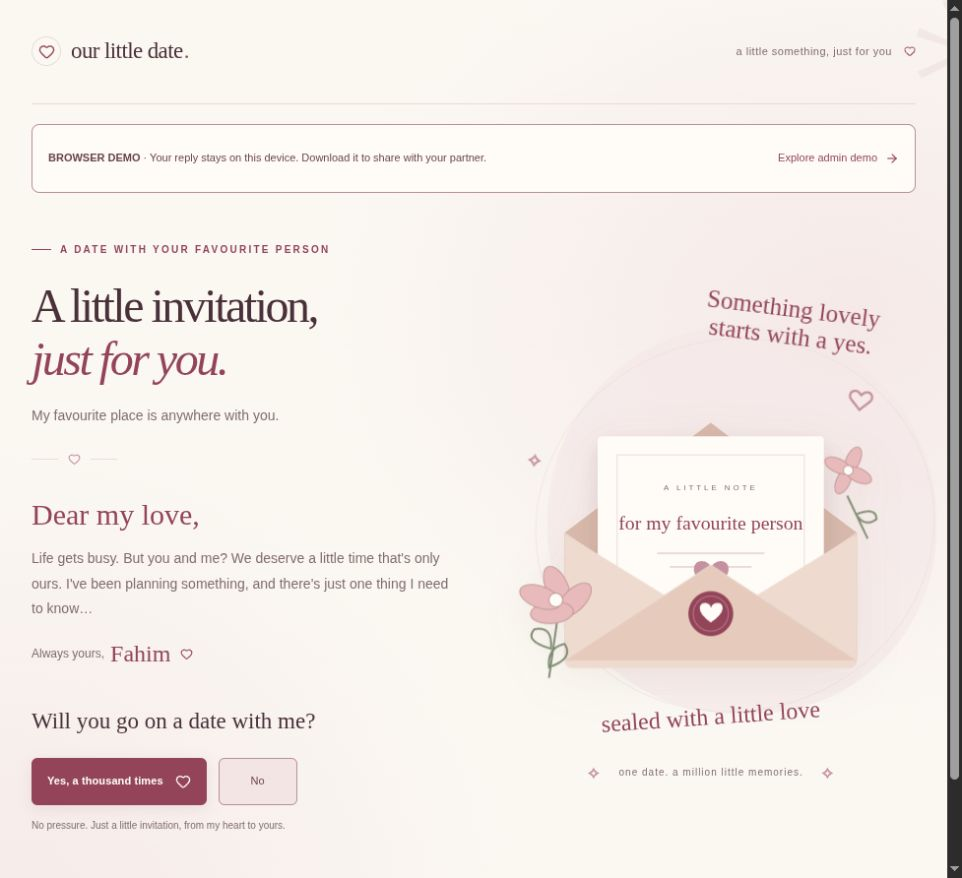
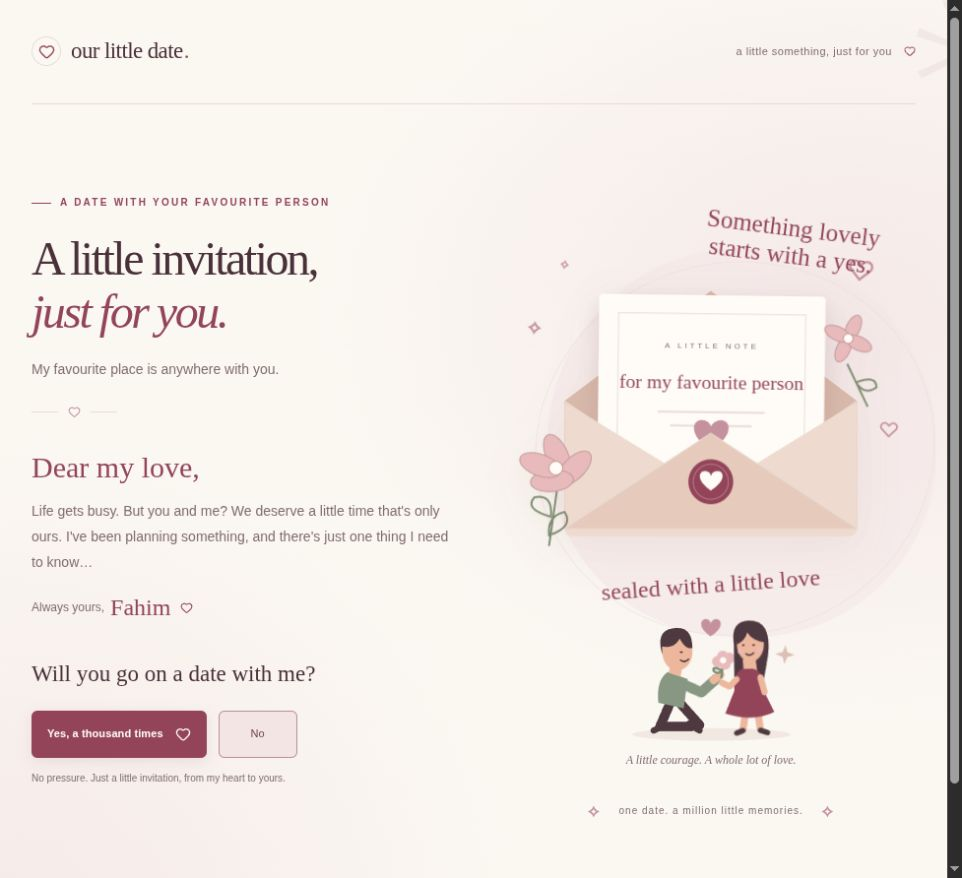
feat: animate love letter and add flower-offering couple

diff --git a/components/invitation/InvitationExperience.tsx b/components/invitation/InvitationExperience.tsx
@@ -7,6 +7,7 @@ import { DEFAULT_CONFIG } from "@/lib/defaults";
 import type { Answer, InvitationConfig, InvitationPayload, SavedResponse, SubmissionInput } from "@/lib/contracts";
 import "./invitation.css";
 import { RunawayNoButton } from "./RunawayNoButton";
+import { CoupleIllustration } from "./CoupleIllustration";
 import { DEMO_RECEIPT_KEY, demoReplyText, readDemoReceipt, saveDemoReceipt } from "@/lib/browser-demo";
 
 type Step = "welcome" | "date" | "preferences" | "note" | "review" | "saved";
@@ -31,7 +32,7 @@ function LetterIllustration() {
     <svg viewBox="0 0 420 340" className="invite-envelope-svg">
       <defs><filter id="letter-shadow" x="-50%" y="-50%" width="200%" height="200%"><feDropShadow dx="0" dy="9" stdDeviation="10" floodColor="currentColor" floodOpacity=".1" /></filter></defs>
       <g className="invite-envelope-back"><path d="M60 166 210 53l150 113v131H60Z" fill="var(--invite-envelope-deep)"/><path d="m60 166 150 104 150-104" fill="none" stroke="var(--invite-line)"/></g>
-      <g className="invite-letter" filter="url(#letter-shadow)"><rect x="94" y="67" width="232" height="206" rx="4" fill="var(--invite-paper)"/><path d="M114 86h192v166H114Z" fill="none" stroke="var(--invite-line)"/><text x="210" y="122" textAnchor="middle" className="invite-svg-small">A LITTLE NOTE</text><text x="210" y="163" textAnchor="middle" className="invite-svg-script">for my favourite person</text><path d="M155 187h110m-97 14h84" stroke="var(--invite-line)" strokeWidth="2"/><path d="M210 226c-23-15-20-31-9-31 5 0 9 4 9 7 1-3 5-7 10-7 11 0 14 16-10 31Z" fill="var(--invite-rose-soft)"/></g>
+      <g className="invite-letter" filter="url(#letter-shadow)"><g className="invite-letter-float"><rect x="94" y="67" width="232" height="206" rx="4" fill="var(--invite-paper)"/><path d="M114 86h192v166H114Z" fill="none" stroke="var(--invite-line)"/><text x="210" y="122" textAnchor="middle" className="invite-svg-small">A LITTLE NOTE</text><text x="210" y="163" textAnchor="middle" className="invite-svg-script">for my favourite person</text><path d="M155 187h110m-97 14h84" stroke="var(--invite-line)" strokeWidth="2"/><path d="M210 226c-23-15-20-31-9-31 5 0 9 4 9 7 1-3 5-7 10-7 11 0 14 16-10 31Z" fill="var(--invite-rose-soft)"/></g></g>
       <path d="M60 167 210 259 360 167v130a8 8 0 0 1-8 8H68a8 8 0 0 1-8-8Z" fill="var(--invite-envelope-light)"/>
       <path d="m60 297 150-98 150 98" fill="var(--invite-envelope-front)" stroke="var(--invite-line)" strokeWidth=".8"/>
       <circle cx="210" cy="249" r="23" fill="var(--invite-accent)"/><circle cx="210" cy="249" r="18" fill="none" stroke="var(--invite-seal-line)"/><path d="M210 258c-15-10-13-20-6-20 3 0 6 2 6 5 1-3 3-5 7-5 7 0 9 10-7 20Z" fill="var(--invite-paper)"/>
@@ -40,7 +41,7 @@ function LetterIllustration() {
       <g transform="translate(351 102) rotate(25)" fill="var(--invite-flower-petal)" stroke="var(--invite-rose-muted)"><ellipse cy="-12" rx="7" ry="14"/><ellipse cy="12" rx="7" ry="14"/><ellipse cx="12" rx="14" ry="7"/><ellipse cx="-12" rx="14" ry="7"/><circle r="5" fill="var(--invite-paper)"/></g>
       <path d="m350 128 21 44m-12-25q21-8 21 5-12 9-21-5Z" stroke="var(--invite-leaf)" fill="none" strokeWidth="2"/>
     </svg>
-    <span className="invite-floating-heart invite-heart-one">♡</span><span className="invite-floating-heart invite-heart-two">✧</span><span className="invite-envelope-caption">sealed with a little love</span>
+    <span className="invite-floating-heart invite-heart-one">♡</span><span className="invite-floating-heart invite-heart-three">♡</span><span className="invite-floating-heart invite-heart-four">✧</span><span className="invite-floating-heart invite-heart-two">✧</span><span className="invite-envelope-caption">sealed with a little love</span>
   </div>;
 }
 
@@ -211,7 +212,7 @@ export function InvitationExperience({ initialPayload, token, demo = false }: { 
       {openingFailed && <section className="invite-confirmation invite-opening-failure"><span className="invite-section-icon"><Mail size={22}/></span><span className="invite-eyebrow">YOUR PERSONAL INVITATION</span><h1>We couldn’t open this invitation.</h1><p className="invite-confirmation-copy" role="alert">{error}</p><p className="invite-no-pressure">Please try again, or ask Fahim for a fresh personal invitation link.</p></section>}
       {!openingFailed && step === "welcome" && <section className="invite-welcome invite-animate-in">
         <div className="invite-hero-copy"><span className="invite-eyebrow"><span/> A DATE WITH YOUR FAVOURITE PERSON</span><h1 ref={headingRef} tabIndex={-1}>{config.title.split("\n").map((line, index) => <span key={index}>{line}</span>)}</h1><p className="invite-subtitle">{config.subtitle}</p><div className="invite-tiny-rule"><span/><Heart size={13}/><span/></div><div className="invite-personal-note"><span className="invite-handwriting">Dear {config.recipientName},</span><p>{config.openingNote}</p><span className="invite-signature">Always yours, <span>{config.senderName}</span><Heart size={13}/></span></div><h2 className="invite-question">Will you go on a date with me?</h2><div className="invite-answer-buttons"><button className="invite-button invite-primary" onClick={() => chooseAnswer("yes")}>Yes, a thousand times <Heart size={16}/></button><RunawayNoButton onChoose={() => chooseAnswer("no")} /></div><p className="invite-no-pressure">No pressure. Just a little invitation, from my heart to yours.</p></div>
-        <div className="invite-hero-art"><span className="invite-art-note">Something lovely<br/>starts with a yes.</span><LetterIllustration/><div className="invite-art-footer"><span className="invite-art-sparkle">✧</span><span>one date. a million little memories.</span><span className="invite-art-sparkle">✧</span></div></div>
+        <div className="invite-hero-art"><span className="invite-art-note">Something lovely<br/>starts with a yes.</span><LetterIllustration/><CoupleIllustration/><div className="invite-art-footer"><span className="invite-art-sparkle">✧</span><span>one date. a million little memories.</span><span className="invite-art-sparkle">✧</span></div></div>
       </section>}
       {!openingFailed && isFlow && <section className="invite-flow invite-animate-in" aria-label="Your invitation reply">
         <button className="invite-back" onClick={back} disabled={saving}><ArrowLeft size={16}/> Back</button>

diff --git a/components/invitation/invitation.css b/components/invitation/invitation.css
@@ -18,6 +18,9 @@
   --invite-envelope-front: #e6cbbd;
   --invite-flower-petal: #e9babb;
   --invite-seal-line: #b67b8a;
+  --invite-avatar-skin: #edb79e;
+  --invite-avatar-hair: #4f3940;
+  --invite-avatar-shirt: #879782;
   --invite-shadow: 0 12px 65px rgb(98 62 55 / 5%);
   --invite-font-serif: var(--font-editorial, Georgia, 'Times New Roman', serif);
   --invite-font-script: var(--font-handwritten, 'Brush Script MT', 'Segoe Script', cursive);
@@ -92,10 +95,21 @@
 .invite-svg-small { font-family: inherit; font-size: 8px; letter-spacing: 3px; fill: var(--invite-muted); }
 .invite-svg-script { font-family: var(--invite-font-script); font-size: 20px; fill: var(--invite-accent); }
 .invite-letter { transform-origin: center; animation: invite-letter-arrive 1.2s ease both; }
+.invite-letter-float { transform-origin: 210px 210px; animation: invite-paper-drift 5s ease-in-out 1.2s infinite; }
 .invite-envelope-caption { display: block; font-family: var(--invite-font-script); font-size: 24px; color: var(--invite-accent); text-align: center; margin: -4px 0 20px; transform: rotate(-4deg); }
 .invite-floating-heart { position: absolute; color: var(--invite-rose-soft); font-size: 29px; animation: invite-float 5s ease-in-out infinite; }
 .invite-heart-one { right: 10%; top: 3%; transform: rotate(10deg); }
 .invite-heart-two { top: 19%; left: 5%; font-size: 26px; animation-delay: -2s; }
+.invite-heart-three { right: 4%; top: 48%; font-size: 21px; animation-delay: -3s; }
+.invite-heart-four { left: 13%; top: 3%; font-size: 18px; animation-delay: -1s; }
+.invite-floating-heart { pointer-events: none; }
+.invite-couple-moment { position: relative; z-index: 2; width: 225px; max-width: 75%; margin: -10px auto 24px; text-align: center; pointer-events: none; }
+.invite-couple-moment svg { width: 100%; height: auto; display: block; overflow: visible; }
+.invite-couple-moment figcaption { font-family: var(--invite-font-serif); font-style: italic; font-size: 12px; color: var(--invite-muted); margin-top: 3px; }
+.invite-couple-offer { transform-origin: 101px 87px; animation: invite-flower-offer 4s ease-in-out infinite; }
+.invite-couple-girl { transform-origin: 191px 151px; animation: invite-happy-sway 4.5s ease-in-out infinite; }
+.invite-couple-heart { animation: invite-heart-rise 4s ease-in-out infinite; }
+.invite-couple-sparkle { transform-origin: 233px 51px; animation: invite-sparkle-turn 6s ease-in-out infinite; }
 .invite-art-footer { z-index: 1; display: flex; gap: 18px; align-items: center; justify-content: center; color: var(--invite-muted); font-size: 10px; letter-spacing: 1px; }
 .invite-art-sparkle { color: var(--invite-rose-soft); font-size: 22px; }
 .invite-background-flower { color: var(--invite-line); opacity: .45; font-size: 210px; position: absolute; line-height: 1; pointer-events: none; }
@@ -207,6 +221,11 @@
 .invite-animate-in { animation: invite-arrive .55s ease both; }
 @keyframes invite-arrive { from { opacity: 0; transform: translateY(12px); } to { opacity: 1; transform: translateY(0); } }
 @keyframes invite-letter-arrive { from { transform: translateY(25px); } to { transform: translateY(0); } }
+@keyframes invite-paper-drift { 0%, 100% { transform: translateY(0) rotate(-.4deg); } 50% { transform: translateY(-10px) rotate(.8deg); } }
+@keyframes invite-flower-offer { 0%, 100% { transform: rotate(0); } 50% { transform: rotate(-5deg); } }
+@keyframes invite-happy-sway { 0%, 100% { transform: rotate(-1deg); } 50% { transform: rotate(1.5deg); } }
+@keyframes invite-heart-rise { 0%, 100% { transform: translateY(0); opacity: .5; } 50% { transform: translateY(-7px); opacity: 1; } }
+@keyframes invite-sparkle-turn { 0%, 100% { transform: rotate(-8deg) scale(.9); opacity: .6; } 50% { transform: rotate(8deg) scale(1.05); opacity: 1; } }
 @keyframes invite-float { 0%, 100% { transform: translateY(0) rotate(10deg); } 50% { transform: translateY(-10px) rotate(2deg); } }
 @media (min-width: 1500px) { .invite-welcome { padding-top: 90px; padding-bottom: 100px; } }
 @media (min-width: 1001px) and (max-height: 850px) {

diff --git a/components/invitation/CoupleIllustration.tsx b/components/invitation/CoupleIllustration.tsx
@@ -1,0 +1,39 @@
+export function CoupleIllustration() {
+  return <figure className="invite-couple-moment">
+    <svg viewBox="0 0 280 170" role="img" aria-labelledby="couple-title">
+      <title id="couple-title">A boy offers a flower to the girl he would love to take on a date.</title>
+      <ellipse cx="140" cy="152" rx="100" ry="8" fill="var(--invite-line)" opacity=".55" />
+      <g className="invite-couple-boy">
+        <path d="M88 112 75 142h40m-15-30 25 28h-12" fill="none" stroke="var(--invite-avatar-hair)" strokeWidth="12" strokeLinecap="round" strokeLinejoin="round" />
+        <path d="M85 73q-15 10-12 39l32 7 5-37Z" fill="var(--invite-avatar-shirt)" />
+        <path d="m78 142-11 5m48-6 10 6" stroke="var(--invite-avatar-hair)" strokeWidth="8" strokeLinecap="round" />
+        <path d="m86 74 3-13 15 1-3 17" fill="var(--invite-avatar-skin)" />
+        <ellipse cx="97" cy="48" rx="19" ry="23" fill="var(--invite-avatar-skin)" />
+        <path d="M78 51q-9-29 12-33 26-5 26 25-9 2-16-12-7 13-22 10Z" fill="var(--invite-avatar-hair)" />
+        <path d="m101 48 2 0m8 9q-5 5-10 1" stroke="var(--invite-avatar-hair)" strokeWidth="2" fill="none" strokeLinecap="round" />
+        <g className="invite-couple-offer">
+          <path d="m101 87 25 14 20-15" fill="none" stroke="var(--invite-avatar-shirt)" strokeWidth="13" strokeLinecap="round" strokeLinejoin="round" />
+          <path d="m143 87 9-6" stroke="var(--invite-avatar-skin)" strokeWidth="10" strokeLinecap="round" />
+          <path d="m153 85 5-24m-3 15q-12-8-11-1 3 6 11 1" fill="none" stroke="var(--invite-leaf)" strokeWidth="3" strokeLinecap="round" />
+          <g fill="var(--invite-flower-petal)"><circle cx="157" cy="58" r="7" /><circle cx="165" cy="61" r="7" /><circle cx="159" cy="68" r="7" /><circle cx="150" cy="64" r="7" /></g>
+          <circle cx="157" cy="63" r="4" fill="var(--invite-paper)" />
+        </g>
+      </g>
+      <g className="invite-couple-girl">
+        <path d="m184 122-4 24m19-23 3 23" stroke="var(--invite-avatar-skin)" strokeWidth="9" strokeLinecap="round" />
+        <path d="m180 147-8 3m30-3 9 3" stroke="var(--invite-avatar-hair)" strokeWidth="7" strokeLinecap="round" />
+        <path d="M170 37q-4-29 20-29 29 0 23 45l-6 32-37-3Z" fill="var(--invite-avatar-hair)" />
+        <path d="m181 57 1 14 17 1-2-18" fill="var(--invite-avatar-skin)" />
+        <path d="M180 69q-12 6-10 27l-12 29q34 12 62-1l-15-31q3-20-11-24Z" fill="var(--invite-accent)" />
+        <ellipse cx="191" cy="38" rx="17" ry="22" fill="var(--invite-avatar-skin)" />
+        <path d="M174 38q-3-26 17-26 17 0 20 24-16-1-24-13-2 10-13 15Z" fill="var(--invite-avatar-hair)" />
+        <path d="m181 39 2 0m11 0 2 0m-11 11q5 4 10-1" stroke="var(--invite-avatar-hair)" strokeWidth="2" fill="none" strokeLinecap="round" />
+        <path d="m173 82-9 9-10-5m49-6 5 19" stroke="var(--invite-avatar-skin)" strokeWidth="8" fill="none" strokeLinecap="round" strokeLinejoin="round" />
+        <circle cx="178" cy="47" r="3" fill="var(--invite-flower-petal)" /><circle cx="202" cy="45" r="3" fill="var(--invite-flower-petal)" />
+      </g>
+      <g className="invite-couple-heart" fill="var(--invite-rose-soft)"><path d="M139 35c-17-11-13-22-6-22 4 0 6 3 6 6 1-3 3-6 7-6 7 0 11 11-7 22Z" /></g>
+      <path className="invite-couple-sparkle" d="m230 48 3-9 3 9 9 3-9 3-3 9-3-9-9-3Z" fill="var(--invite-envelope-deep)" />
+    </svg>
+    <figcaption>A little courage. A whole lot of love.</figcaption>
+  </figure>;
+}

diff --git a/lib/runaway.ts b/lib/runaway.ts
@@ -8,13 +8,13 @@ export function runawayPosition(
   pointer: Point,
   exclusions: Rectangle[],
   previous?: Point,
+  variation = 0,
 ): Point | null {
   const marginX = Math.min(20, Math.max(0, (viewport.width - size.width) / 2));
   const marginY = Math.min(20, Math.max(0, (viewport.height - size.height) / 2));
   const maxX = Math.max(marginX, viewport.width - size.width - marginX);
   const maxY = Math.max(marginY, viewport.height - size.height - marginY);
-  let result: Point | null = null;
-  let best = -Infinity;
+  const candidates: { point: Point; score: number }[] = [];
   for (let row = 0; row < 7; row++) for (let column = 0; column < 7; column++) {
     const point = { x: marginX + (maxX - marginX) * column / 6, y: marginY + (maxY - marginY) * row / 6 };
     const overlaps = exclusions.some(rect => point.x < rect.left + rect.width + 18 && point.x + size.width > rect.left - 18 && point.y < rect.top + rect.height + 18 && point.y + size.height > rect.top - 18);
@@ -23,7 +23,11 @@ export function runawayPosition(
     const distance = Math.hypot(point.x + size.width / 2 - pointer.x, point.y + size.height / 2 - pointer.y);
     const travel = previous ? Math.hypot(point.x - previous.x, point.y - previous.y) : 0;
     const score = distance + travel * .25;
-    if (score > best) { best = score; result = point; }
+    candidates.push({ point, score });
   }
-  return result;
+  candidates.sort((a, b) => b.score - a.score);
+  const count = Math.min(10, candidates.length);
+  if (!count) return null;
+  const index = Math.floor(Math.min(.999, Math.max(0, variation)) * count);
+  return candidates[index].point;
 }

diff --git a/tests/runaway.test.ts b/tests/runaway.test.ts
@@ -24,4 +24,18 @@ describe("playful No placement", () => {
   it("does not cover other controls when there is no safe space", () => {
     expect(runawayPosition({ width: 200, height: 100 }, { width: 160, height: 48 }, { x: 50, y: 50 }, [{ left: 0, top: 0, width: 200, height: 100 }])).toBeNull();
   });
+  it("varies its resting places while keeping every choice on screen and clear of Yes", () => {
+    const yes = { left: 50, top: 500, width: 230, height: 48 };
+    const positions = Array.from({ length: 10 }, (_, index) => runawayPosition(
+      { width: 1200, height: 800 }, { width: 80, height: 48 }, { x: 330, y: 520 }, [yes], undefined, index / 10,
+    )!);
+    expect(new Set(positions.map(point => `${point.x},${point.y}`)).size).toBeGreaterThan(4);
+    for (const point of positions) {
+      expect(point.x).toBeGreaterThanOrEqual(0);
+      expect(point.y).toBeGreaterThanOrEqual(0);
+      expect(point.x + 80).toBeLessThanOrEqual(1200);
+      expect(point.y + 48).toBeLessThanOrEqual(800);
+      expect(point.x > yes.left + yes.width || point.x + 80 < yes.left || point.y > yes.top + yes.height || point.y + 48 < yes.top).toBe(true);
+    }
+  });
 });

diff --git a/components/invitation/RunawayNoButton.tsx b/components/invitation/RunawayNoButton.tsx
@@ -20,7 +20,7 @@ export function RunawayNoButton({ onChoose }: { onChoose: () => void }) {
       .filter(control => control !== element)
       .map(control => control.getBoundingClientRect())
       .filter(box => box.width > 0 && box.height > 0 && box.bottom > 0 && box.top < window.innerHeight && box.right > 0 && box.left < window.innerWidth);
-    const next = runawayPosition({ width: window.innerWidth, height: window.innerHeight }, rect, pointer, exclusions, positionRef.current || undefined);
+    const next = runawayPosition({ width: window.innerWidth, height: window.innerHeight }, rect, pointer, exclusions, positionRef.current || undefined, Math.random());
     if (!next) return;
     setPortalHost(element.closest<HTMLElement>(".invite-root"));
     setSlotSize(current => current || { width: rect.width, height: rect.height });

diff --git a/.claude/memory/fahim-build-state.md b/.claude/memory/fahim-build-state.md
@@ -23,3 +23,9 @@ Added the two owner-provided public Supabase settings to Vercel Production and r
 Owner requested removing all dashboard demo data. Removed four seeded responses from lib/admin-demo.ts, updated UI/about/docs and existing credential/demo test. Demo login remains; lists/metrics initialize empty on every visit. Real database rows/accounts untouched. Next: lint/unit/build, commit/push, verify Vercel live empty dashboard after reload.
 
 Owner additionally requested hiding the recipient BROWSER DEMO banner. Removed only the top banner in InvitationExperience; browser-only storage disclosure remains at review/receipt. Include this in the pending empty-dashboard release and verify live /demo.
+
+## Animation work — 2026-10-14
+
+Prior empty-dashboard/banner removal commitb017f4a is live (Vercel success). Owner now requested applying deferred animation and a boy inviting a girl avatar. Added CoupleIllustration.tsx SVG flower-offering scene, paper drift and extra hearts, restrained couple movement; random variation among ten safe No positions. Existing unit40passed plus expanded placement5passed; lint passed before the new test-only addition. Native browser375px and default desktop977px reviewed; actual letter/hand/sway/heart transforms change over time; no page overflow. Next: final build/lint, commit/push, verify live /demo and empty dashboard, update this checkpoint.
+
+Final animation build passed (detached production build exit0); lint passed. Owner approved the design and explicitly requested completing and pushing it. Phone375 and desktop1440 native review passed; varied No remained inside the viewport with Yes stationary. Next exact step: commit/push approved animation, then verify Vercel readiness/live illustration and empty demo dashboard.

diff --git a/README.md b/README.md
@@ -16,8 +16,8 @@ The admin demo starts empty; the seeded sample replies have been removed. It nev
 
 ## Features
 
-- Responsive English invitation with an animated letter, calendar, time slots, configurable questions, optional note, review, and saved receipt.
-- A stationary “Yes, a thousand times” button and playful “No” button that moves away from mouse attempts. Keyboard and touch still support declining; reduced-motion settings remove movement transitions.
+- Responsive English invitation with a gently floating letter, hearts, and an animated couple exchanging a flower; calendar, time slots, configurable questions, optional note, review, and saved receipt.
+- A stationary “Yes, a thousand times” button and playful “No” button that moves to varied safe locations away from mouse attempts. Keyboard and touch still support declining; reduced-motion settings remove movement transitions.
 - Standalone demo with browser-local final reply storage; clear and try again for testing.
 - Optional private invitations store only complete, validated replies in Supabase. Atomic saving and a unique recipient constraint prevent duplicate submissions across devices.
 - Authenticated dashboard with statistics, search, filters, response detail, deletion, CSV/Excel export, and versioned invitation customization.

diff --git a/docs/INVENTORY.md b/docs/INVENTORY.md
@@ -1,6 +1,6 @@
 # INVENTORY.md — reuse map (generated, do not hand-edit)
 
-<!-- generated by .claude/scripts/gen-inventory.mjs on 2026-10-13. Regenerate before every fan-out and at close. -->
+<!-- generated by .claude/scripts/gen-inventory.mjs on 2026-10-14. Regenerate before every fan-out and at close. -->
 
 > **Reuse rubric:** exact match → **reuse** · close (differs by config) → **extend with a variant/prop** · genuinely new → **create** in the right unit, add a one-line `@purpose` comment, regenerate this file. Search here before writing any new component/util/schema, and state your reuse/extend/new choice in the ticket summary.
 
@@ -72,10 +72,11 @@
 |---|---|---|---|
 | `AdminWorkspace` | function | — | `components/admin/AdminWorkspace.tsx` |
 
-## components/invitation  _(2)_
+## components/invitation  _(3)_
 
 | Export | Kind | Purpose | File |
 |---|---|---|---|
+| `CoupleIllustration` | function | — | `components/invitation/CoupleIllustration.tsx` |
 | `InvitationExperience` | function | — | `components/invitation/InvitationExperience.tsx` |
 | `RunawayNoButton` | function | — | `components/invitation/RunawayNoButton.tsx` |
 
@@ -108,4 +109,4 @@
 | `userClient` | function | — | `lib/server/supabase.ts` |
 
 
-_53 exports across 10 unit(s)._
+_54 exports across 10 unit(s)._

diff --git a/docs/verification/FINAL.md b/docs/verification/FINAL.md
@@ -37,3 +37,7 @@ Native browser review of the live production alias verified hydration, keyboard 
  A public demo does not claim hosted Supabase or automatic delivery of real replies.
 
 Git-connected deployment for final manifest/docs commit `ccc7cc2` also reached READY (Vercel deployment `4qwYEfkZUEG27ssKbTGsUXJQH9Xv`); GitHub reports Vercel success. No source code changed during the final release-record update.
+
+## Cleanup and animation update — 2026-10-14
+
+Removed seeded demo replies so dashboard totals/list remain empty after reload. Hid the recipient top BROWSER DEMO banner while retaining browser-only storage disclosure at review and receipt. Added a flower-offering couple SVG, animated paper drift, extra floating hearts, and varied safe No placement. Reviewed native browser375px and1440px layouts without horizontal overflow; observed changing transforms for paper/hand/sway/heart motion. Mouse No stayed within the viewport and Yes retained its rectangle. Existing reduced-motion rule covers all new SVG animations. Ordinary unit suite passed40 tests; the expanded No placement suite passed5 tests, including all ten variation choices. Lint passed.

diff --git a/docs/LOG.md b/docs/LOG.md
@@ -31,3 +31,7 @@ Owner requested deletion of all demo data. Removed the four seeded dashboard res
 In plain terms: The demo dashboard opens empty instead of bringing sample replies back.
 
 The owner also requested hiding the recipient BROWSER DEMO banner. Removed that top banner; review and saved-receipt states continue explaining browser-only storage and manual sharing.
+
+## 2026-10-14 — Romantic motion and couple artwork
+
+Applied subtle repeated letter drift and extra floating hearts. Added editable SVG artwork of a boy offering a flower to a girl, with restrained hand/sway/heart motion. No selects among ten safe placement candidates instead of repeatedly preferring one corner; bounded placement tests pass. All artwork uses semantic palette tokens and existing reduced-motion rules. Verified phone375px without horizontal overflow and observed changing CSS animation transforms in the browser.

diff --git a/docs/ROADMAP.md b/docs/ROADMAP.md
@@ -13,4 +13,4 @@
 Local test access lives only in ignored .local-access.txt. Hosted deployment is not implied by these completed local tickets.
 
 - [x] T-010 Frontend-only recipient demo, download/reset, isolated admin demo login, About, README
-- [ ] T-011 Later animation polish requested by owner: wider variety of No resting positions; subtle repeated paper/letter and surrounding decoration movement, respecting reduced motion and avoiding controls. Current No already evades mouse across the viewport.
+- [x] T-011 Apply paper drift, floating hearts and animated flower-offering couple SVG; No varies among safe resting positions. Reduced-motion guard retained; phone and desktop browser review.
